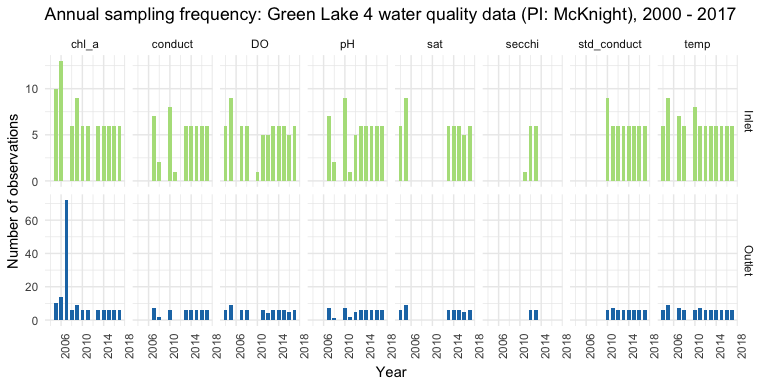
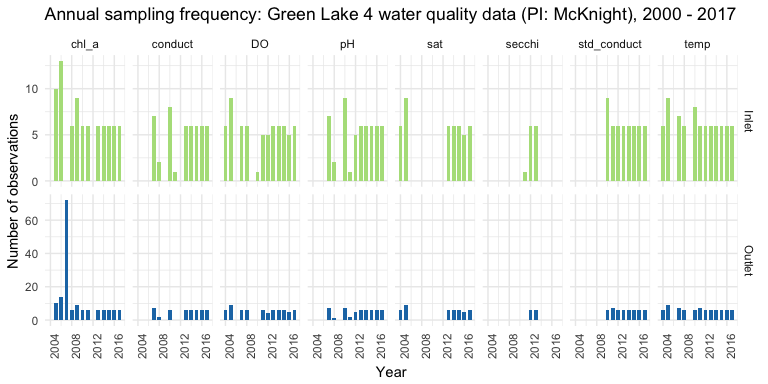
More figure clean up, add text, QA notes

Changed region(s): [[0.0625, 0.8438, 0.9688, 0.9375]]

diff --git a/GL4_WQ_waterchem_datamunging.md b/GL4_WQ_waterchem_datamunging.md
@@ -1,7 +1,7 @@
 Water quality and chemistry data munging for Green Lake 4
 ================
 CTW
-2018-03-13
+2018-03-14
 
 Script purpose
 --------------
@@ -155,7 +155,7 @@ unique(McKnight_GLV_waterchem$local_site)
 
 Kelly Loria has suggested breaking out the "core" water quality and chemistry data (data collected consistently through time) from the McKnight (ongoing) water quality and water chemistry datasets, and keeping infrequently-sampled water quality and water chemistry data in an auxiliary or experimental dataset. For example, some of the "depth/loc" values in the water chemistry dataset are from single-season REU projects (email communication from DMK to KL). In my experience trying to summarize these datasets, and figure out which values are appropriate for summarizing, having a true "core" dataset separate from an auxiliary or experimental dataset makes sense to me.
 
-Working through the McKnight water chemistry dataset, there are a few other issues to mention in the raw data. I show code to illustrate:
+**QA Notes** Working through the McKnight water chemistry dataset, there are a few other issues to mention in the raw data. I show code to illustrate:
 
 -   1905 erroneously entered for the year 2015 in the "year" column
 
@@ -181,7 +181,9 @@ unique(McKnight_GLV_waterchem$year[year(McKnight_GLV_waterchem$date)==2015])
 McKnight_GLV_waterchem$year <- year(McKnight_GLV_waterchem$date)
 ```
 
--   Three numeric fields (TDP, IP, and PO4) have "&lt;" entered, coercing the entire field in R as a character instead of numeric when it's read in. "&lt;" is also an ambiguous value (I know it doesn't exceed a certain level, but I can't say whether "&lt;5" is 4 or 1 which could make a difference for averaging or determining minimum values). Since I'm not sure of the true value, I exclude anything with "&lt;" for summarizing.
+-   Three numeric fields (TDP, IP, and PO4) have "&lt;" entered, coercing the entire field in R as a character instead of numeric when it's read in.
+-   "&lt;" is also an ambiguous value. I know it doesn't exceed a certain level, but I can't say whether "&lt;5" is 4 or 1 which could make a difference for averaging or determining minimum values.
+    -   Since I'm not sure of the true value, I exclude anything with "&lt;" for summarizing.
 
 ``` r
 # remove any values with "<" since not sure of value in context of other values
@@ -229,7 +231,10 @@ Visualize data availability
 
 The following figures show data availability, temporal and depth ranges, and sampling frequency within for the tidied long-form datasets. The reason I include lake ice phenology data is to give some context to when summer season lake data was collected. The metata data for lake water quality and water chemistry (McKnight) states samples were collected approximately 1 week after ice-off, so I wanted to check against Nel Caine's ice phenology data.
 
-Things I'd like feedback on include: + For presenting data availability, which figures are most compelling? + Given data availability (e.g. inconsistencies in sampling frequency by site and depth), how to best summarize data for a usable long-term summary dataset of lake trends
+Things I'd like feedback on include:
+
+-   For presenting data availability, which figures are most compelling?
+-   Given data availability (e.g. inconsistencies in sampling frequency by site and depth), how to best summarize data for a usable long-term summary dataset of lake trends
 
 Showing the ice phenology data availability via raw data values is easy because it's a relatively simple dataset (3 variables x site x time). Showing data availability via actual data values with either water quality or chemistry data is trickier because there are more data (more variables x different depths x location (lake, inlet, outlet) x site x time).
 
@@ -241,12 +246,31 @@ Showing the ice phenology data availability via raw data values is easy because 
 
 ![](GL4_WQ_waterchem_datamunging_files/figure-markdown_github/data%20availablity%20for%20water%20chem-1.png)![](GL4_WQ_waterchem_datamunging_files/figure-markdown_github/data%20availablity%20for%20water%20chem-2.png)![](GL4_WQ_waterchem_datamunging_files/figure-markdown_github/data%20availablity%20for%20water%20chem-3.png)
 
-**Green Lake 4 water quality data availability**
+**Green Lake 4 water quality data availability** QA note: There's a problem with counts for 2007 in my code (there should be 6 obs), which I will fix. There really are that many samples for outlet in 2007 though.
 
-![](GL4_WQ_waterchem_datamunging_files/figure-markdown_github/water%20quality%20data%20availability-1.png) ![](GL4_WQ_waterchem_datamunging_files/figure-markdown_github/lake%20water%20quality%20data%20availability-1.png)
+![](GL4_WQ_waterchem_datamunging_files/figure-markdown_github/water%20quality%20data%20availability-1.png)
 
-An alternative to showing sampling frequency as bar charts is to show it as point data by date by year. These figures capture the sampling range and specific dates sampled, but don't reflect frequency by depth
+QA note: In the raw data, secchi depths values are filled down for all depths (including "air"). In practice, there is only one secchi value per day/time for the entire water column.
 
-![](GL4_WQ_waterchem_datamunging_files/figure-markdown_github/waterchem%20date%20frequency-1.png) ![](GL4_WQ_waterchem_datamunging_files/figure-markdown_github/water%20quality%20date%20frequency-1.png) ![](GL4_WQ_waterchem_datamunging_files/figure-markdown_github/first%20date%20QA%20check-1.png)
+![](GL4_WQ_waterchem_datamunging_files/figure-markdown_github/lake%20water%20quality%20data%20availability-1.png)
+
+**Alternative sampling frequency figures** An alternative to showing sampling frequency as bar charts is to show it as point data by date by year. Instead of emphasizing the total number of observations per year, the focus is on when samples were taken and an interranual comparison of those dates. These figures capture the sampling range and specific dates sampled, but don't reflect frequency by depth.
+
+![](GL4_WQ_waterchem_datamunging_files/figure-markdown_github/waterchem%20date%20frequency-1.png) ![](GL4_WQ_waterchem_datamunging_files/figure-markdown_github/water%20quality%20date%20frequency-1.png)
+
+QA note: Plotting ice off with summer lake sampling date (above), I noticed a slight trend in delay of lake sampling over time. A delayed ice off trend wasn't what I remembered from the NWT renewal/the Preston et al. 2016 paper, and so I plotted first sample, ice break and ice off by year. Since lake sampling started in 1998, there is a significant trend in lake first sampling date with time (ice break and ice off no). The metadata note lake sampling each year begins roughly 1 week after ice off. Any consequence of missing this window is worth considering when summarizing data and comparing vaues interannually.
+
+![](GL4_WQ_waterchem_datamunging_files/figure-markdown_github/first%20date%20QA%20check-1.png)
+
+Data comparison for combining water chemistry datasets
+------------------------------------------------------
+
+Because of overlap in analytes, sites and location within sites, it would be great to merge the Caine and McKnight water chemistry datasets for continuity in time. This prompts are few questions:
+
+-   How do values compare?
+-   Are these datasets appropriate to join?
+-   Is it appropriate to average values across datasets in years where there is sampling overlap?
+
+The outlet samples were collected by both groups in the summer months (Jun - Oct). The Caine lake samples are ones collected from just below the ice in winter months (Nov - May), whereas the McKnight lake samples were only collected in summer and at various depths (see above).
 
 ![](GL4_WQ_waterchem_datamunging_files/figure-markdown_github/plot%20actual%20data%20values-1.png)![](GL4_WQ_waterchem_datamunging_files/figure-markdown_github/plot%20actual%20data%20values-2.png)
